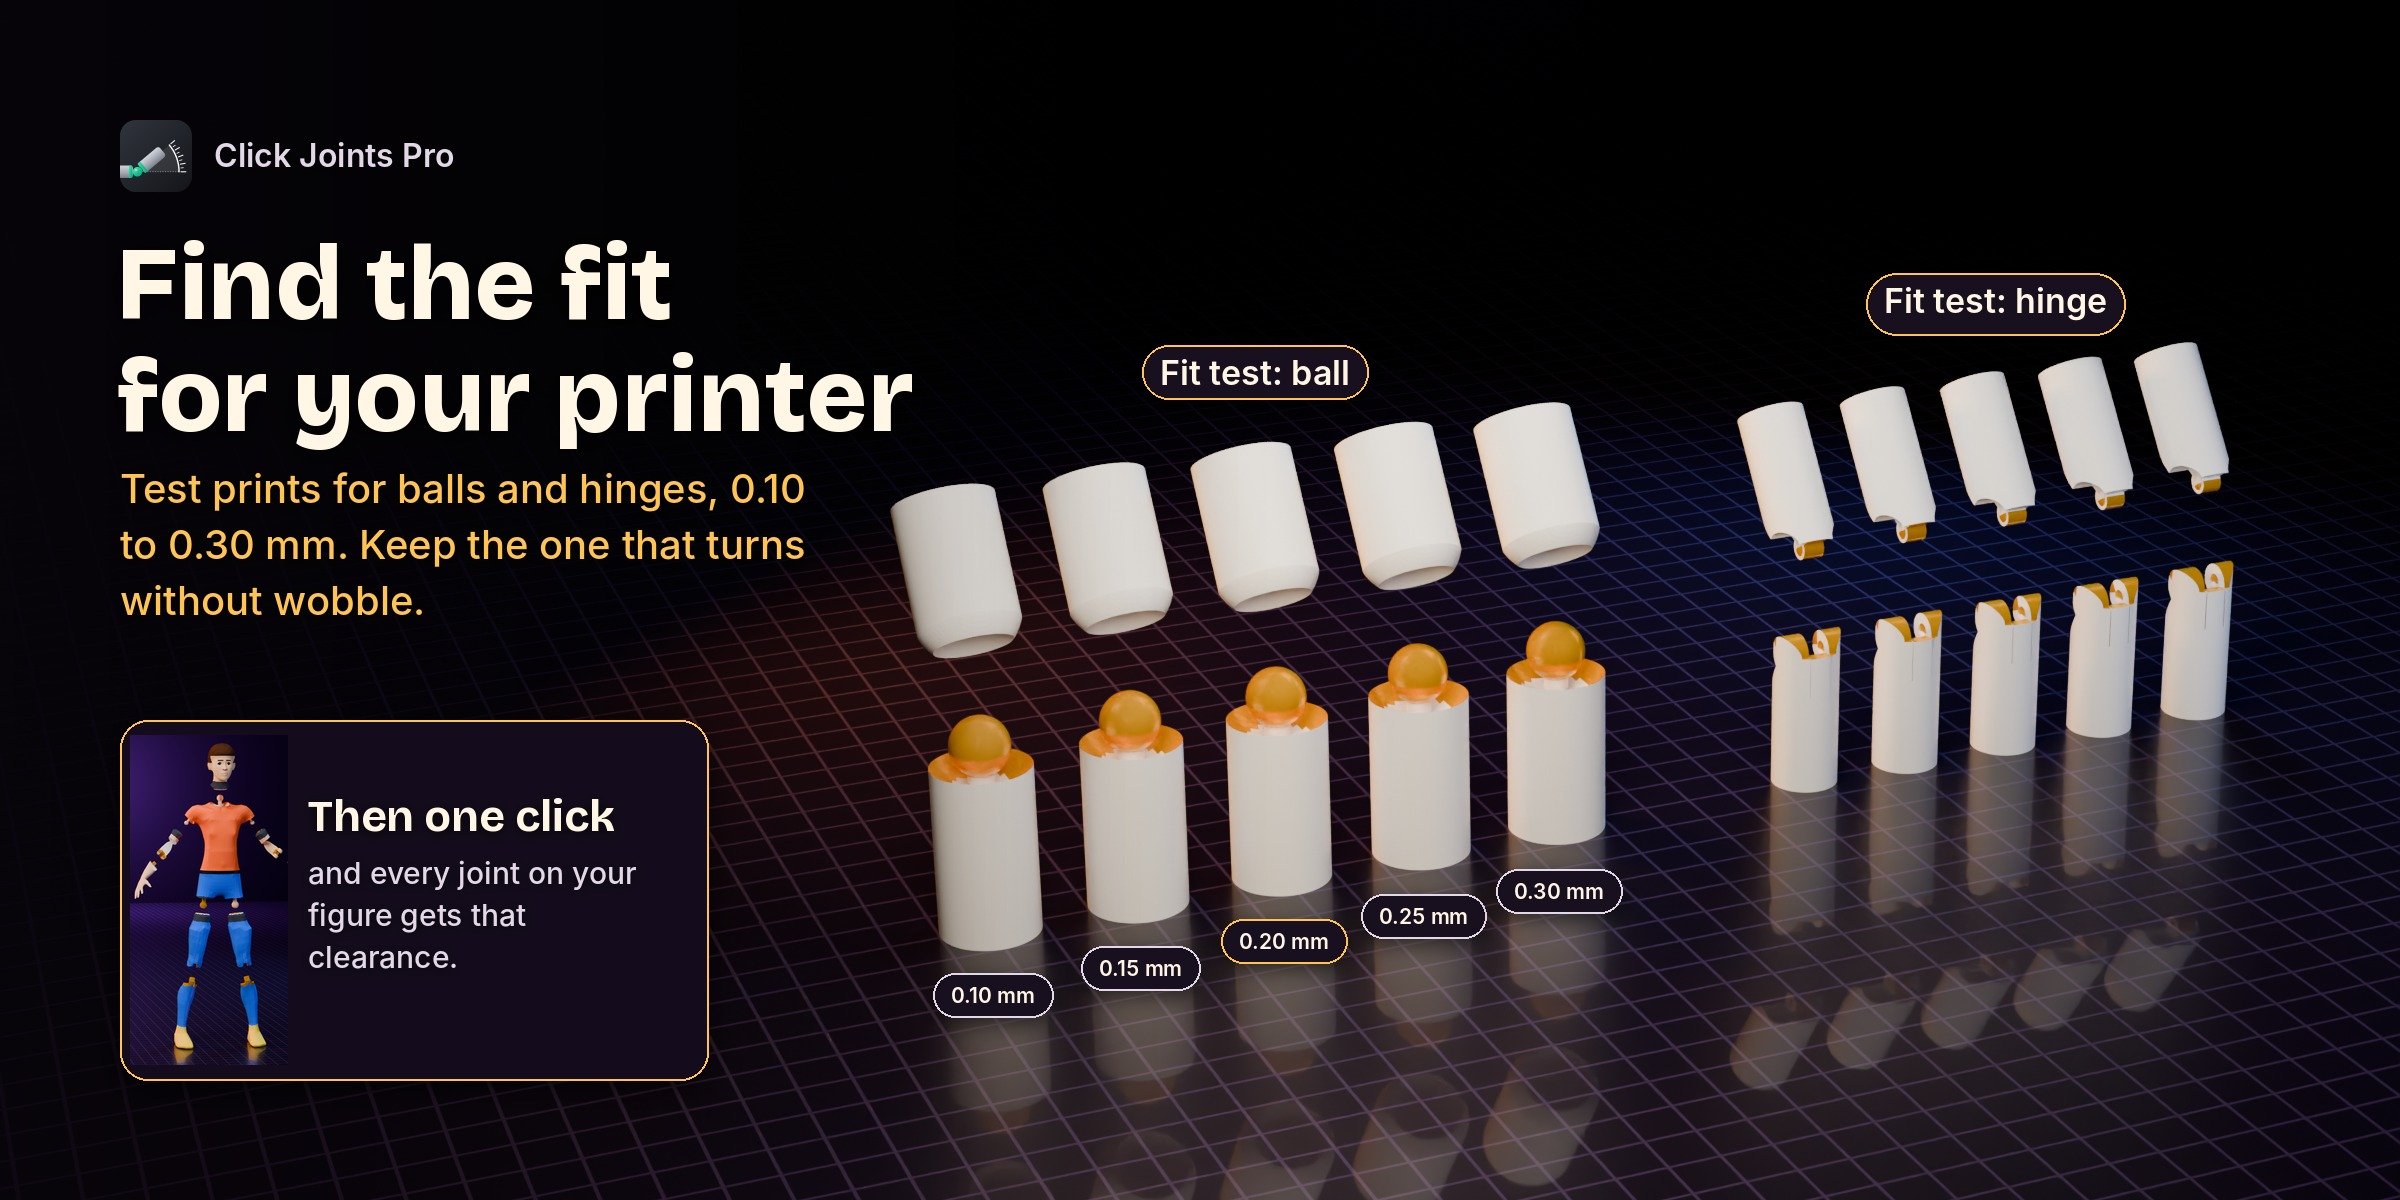
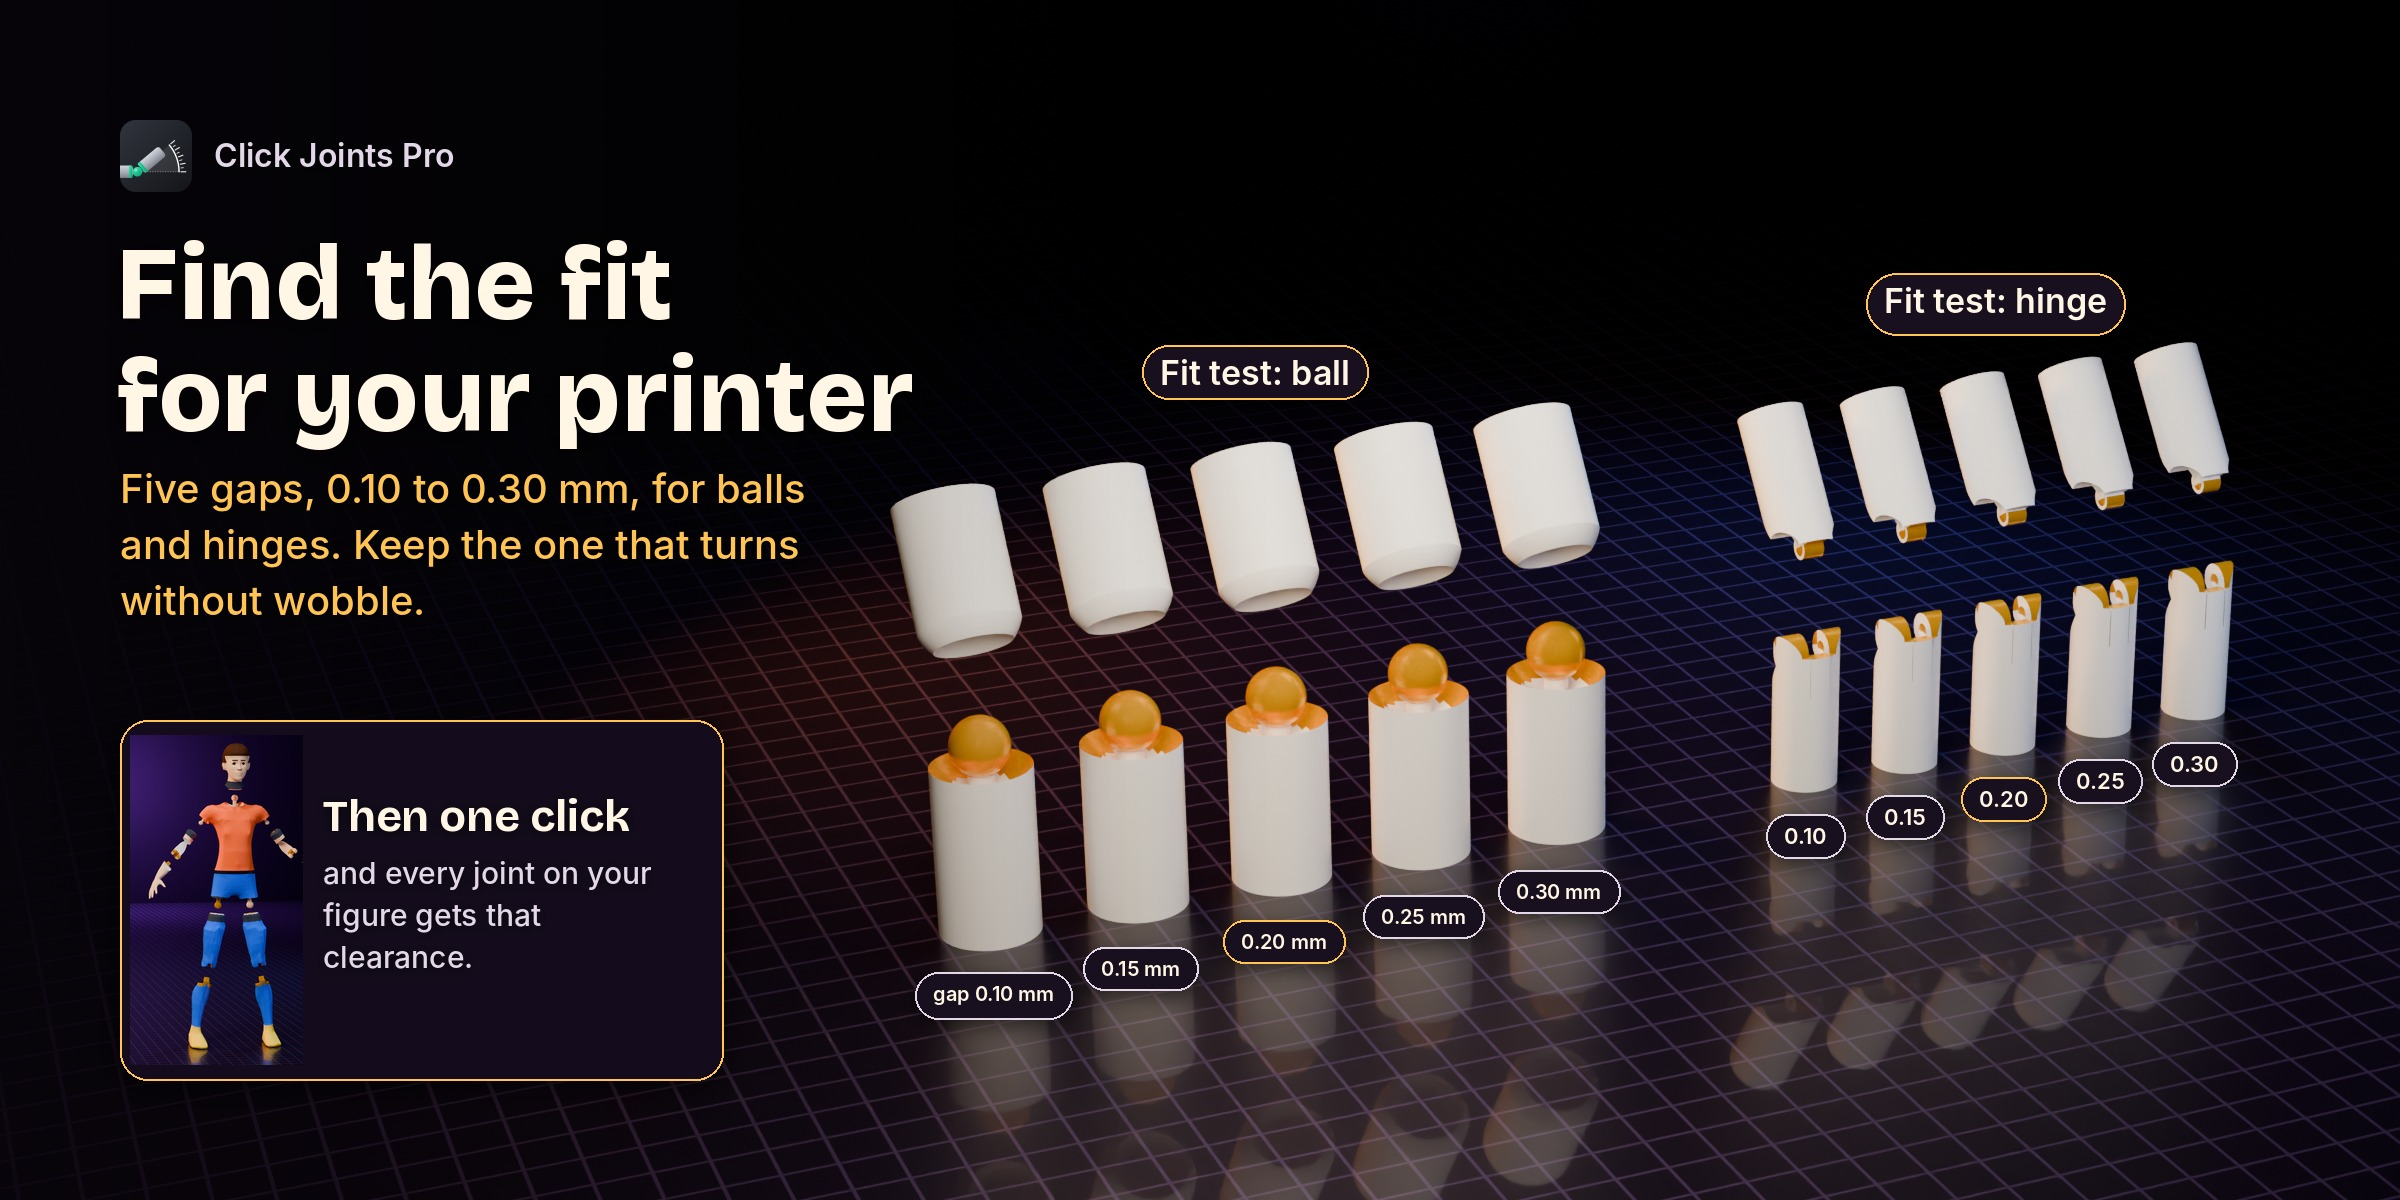
Beeldmaker #205: strip v3 ronde 3 (gap in tekst, spelingen onder scharnieren, kaartje ruimer), blindtestset r3
Claude-Session: https://claude.ai/code/session_01RMWUygBpcXuV4WWBirFnGM

diff --git a/ontwerp/pro-galerij/bron/tekst.py b/ontwerp/pro-galerij/bron/tekst.py
@@ -183,26 +183,35 @@ def strip(img, s, meta, P):
         pil(img, s, (int(x), int(y + 70 * s)), f"{getal} mm", maat=30)
 
 
-def strip3(img, s, meta, P):
-    """Twee proefsets (kogel en scharnier): spelingen onder de voorste set, een soortpil boven elke set."""
-    W, H = img.size
-    rij = [(getal, P(q["voet"])) for getal, q in sorted(meta["labels"].items())]
-    # Pillen mogen elkaar niet raken (Daan #207 en eigen blik: 0.25 en 0.30 plakten op 1920x1080). Meet de breedte
-    # vooraf en kies de grootste letter (24 tot 19) waarbij tussen buren minstens 10 px lucht zit.
+def pilmaat(img, s, rij, teksten, groot, klein, lucht=10):
+    """Grootste lettermaat (groot tot klein) waarbij de pillen van een rij elkaar niet raken (Daan #207)."""
     meet = ImageDraw.Draw(img)
-    maat = 24
-    while maat > 19:
+    maat = groot
+    while maat > klein:
         f = font("Inter.ttf", int(maat * s), "SemiBold")
-        br = [meet.textbbox((0, 0), f"{g}\u00a0mm", font=f)[2] + int(36 * s) for g, _ in rij]
-        if all(rij[i + 1][1][0] - rij[i][1][0] - (br[i] + br[i + 1]) / 2 >= 10 * s for i in range(len(rij) - 1)):
+        br = [meet.textbbox((0, 0), t, font=f)[2] + int(36 * s) for t in teksten]
+        if all(rij[i + 1][0] - rij[i][0] - (br[i] + br[i + 1]) / 2 >= lucht * s for i in range(len(rij) - 1)):
             break
         maat -= 1
-    for getal, (x, y) in rij:
-        pil(img, s, (int(x), int(y + 64 * s)), f"{getal}\u00a0mm", maat=maat, rand=GOUD if getal == "0.20" else ZACHT)
-    for getal, q in sorted(meta.get("labels2", {}).items()):
-        if os.environ.get("GB_LABELS2"):
-            x, y = P(q["voet"])
-            pil(img, s, (int(x), int(y + 64 * s)), getal, maat=28, rand=GOUD if getal == "0.20" else ZACHT)
+    return maat
+
+
+def strip3(img, s, meta, P):
+    """Twee proefsets (kogel en scharnier): spelingen onder beide sets, een soortpil boven elke set.
+
+    Daan #207 M1: '0.30 mm' onder een bal las als de maat van de bal; daarom staat 'gap' in de eerste pil.
+    M2: ook de scharnieren krijgen hun speling (alleen het getal, de mm staat al in de rij ernaast)."""
+    rij = [(getal, P(q["voet"])) for getal, q in sorted(meta["labels"].items())]
+    teksten = [("gap " if i == 0 else "") + f"{g}\u00a0mm" for i, (g, _) in enumerate(rij)]
+    maat = pilmaat(img, s, [p for _, p in rij], teksten, 24, 19)
+    for (getal, (x, y)), t in zip(rij, teksten):
+        pil(img, s, (int(x), int(y + 64 * s)), t, maat=maat, rand=GOUD if getal == "0.20" else ZACHT)
+    rij2 = [(getal, P(q["voet"])) for getal, q in sorted(meta.get("labels2", {}).items())]
+    if rij2 and os.environ.get("GB_LABELS2", "1") != "0":
+        maat2 = pilmaat(img, s, [p for _, p in rij2], [g for g, _ in rij2], 22, 16, lucht=8)
+        dy2 = float(os.environ.get("GB_LABELS2_DY", "56"))
+        for getal, (x, y) in rij2:
+            pil(img, s, (int(x), int(y + dy2 * s)), getal, maat=maat2, rand=GOUD if getal == "0.20" else ZACHT)
     naam = {"KOGEL": "Fit test: ball", "SCHARNIER": "Fit test: hinge"}
     for k in ("eerste", "tweede"):
         st = meta["sets"][k]
@@ -404,7 +413,7 @@ def maak(basis, W, H, meta, dy, schaal):
     elif MODUS.startswith("strip3"):
         donker(img, int(W * 0.55))
         kop(img, s, x0, int(H * 0.10), ["Find the fit", "for your printer"],
-            "Test prints for balls and hinges, 0.10 to 0.30\u00a0mm. Keep the one that turns without wobble.",
+            "Five gaps, 0.10 to 0.30\u00a0mm, for balls and hinges. Keep the one that turns without wobble.",
             int(W * 0.30))
         strip3(img, s, meta, P)
         inzet(img, s, x0, int(H * 0.60))

diff --git a/ontwerp/pro-galerij/LEESMIJ.md b/ontwerp/pro-galerij/LEESMIJ.md
@@ -61,3 +61,4 @@ GB_INZET=<render-klik.png uit pro-videobeeld-1> GB_INZET_KADER=0.775,0.09,1.0,0.
 Fonts: als er statische bestanden `Inter-<gewicht>.ttf` en `Bricolage-<gewicht>.ttf` in de fontmap staan, neemt tekst.py die (Inter uit het systeem, Bricolage Grotesque OFL uit npm @expo-google-fonts/bricolage-grotesque).
 Blinde test: set `organisatie/blindtest/sets/click-joints-pro-galerij-strip-v3.json` (v3 en v2 tegen Cleave, CatPin, Split 3D Print).
 Ronde 2 (26 nov ±19:00, Daan #207 punt pillen): tekst.py meet de spelingpillen vooraf en kiest de grootste letter (24 tot 19) met minstens 10 px lucht tussen buren; zelfde render, alleen de pillen anders. Set `click-joints-pro-galerij-strip-v3-r2.json`.
+Ronde 3 (26 nov ±20:45, Daan #207 M1 en M2, plus kan-punt kaartje): ondertitel "Five gaps, 0.10 to 0.30 mm, for balls and hinges. Keep the one that turns without wobble.", eerste pil "gap 0.10 mm" (zodat 0.30 mm niet als maat van de bal leest), en onder de vijf scharnieren hun speling (0.10 tot 0.30, uit `labels2` in de json; `GB_LABELS2=0` zet ze uit). Kaartje ruimer uitgesneden (`GB_INZET_KADER=0.755,0.09,1.0,0.92`) zodat de linkerhand niet meer afgesneden is. Zelfde render; de rafelige oranje rand bovenop de kogelstukken is de render zelf en bleef. Set `click-joints-pro-galerij-strip-v3-r3.json`.
